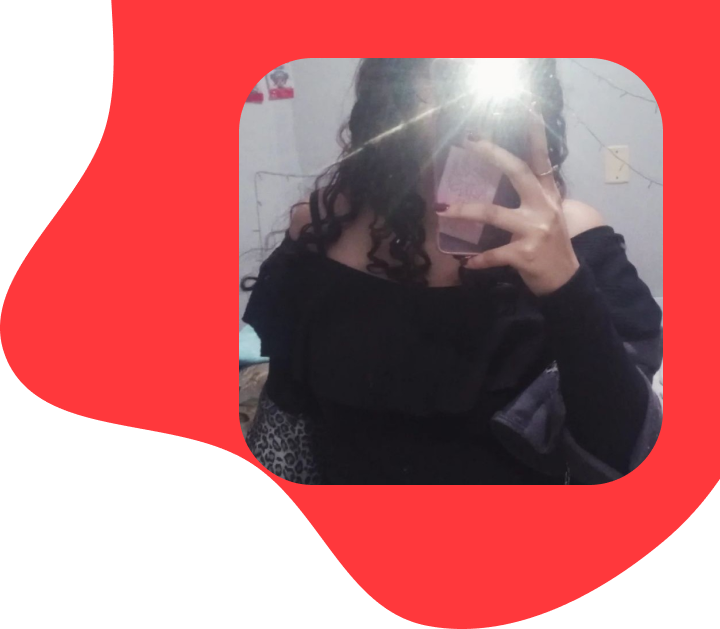
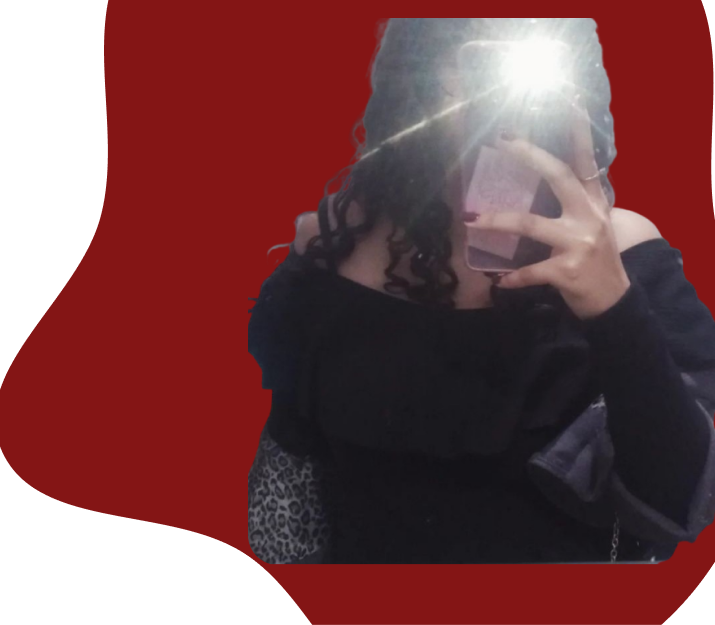
Alterações

diff --git a/index.html b/index.html
@@ -6,6 +6,9 @@
     <meta name="viewport" content="width=device-width, initial-scale=1.0">
     <title>Portifolio</title>
     <link rel="stylesheet" href="style.css">
+        <link rel="preconnect" href="https://fonts.googleapis.com">
+<link rel="preconnect" href="https://fonts.gstatic.com" crossorigin>
+<link href="https://fonts.googleapis.com/css2?family=Nunito:ital,wght@0,200..1000;1,200..1000&display=swap" rel="stylesheet">
 </head>
 
 <body>
@@ -21,42 +24,49 @@
         </nav>
     </header>
 
-    <div class="info">
-        <p class="cargo">Desenvolvedor web</p>
-        <h1>Oi,Meu nome é Eloisa</h1>
-        <p class="description">Sou aluna do senai,do curso tecnico e desenvolvimento de sistema.Minha cor favotira é
-            vermelho vinho,gosto de gatos e cachorros,ler e pintar</p>
-    </div>
-    <button><a href="#projetos"></a>Projetos</button>
-    <button><a href="btn-ghost">https://www.Likedin.com/in/bmiz</a>Likedin</button>
+    <section>
+        <div class="info">
+            <p class="cargo">Desenvolvedor web</p>
+            <h1>Oi,Meu nome é Eloisa</h1>
+            <p class="description">Sou aluna do senai,do curso tecnico e desenvolvimento de sistema.Minha cor favotira é
+                vermelho vinho,gosto de gatos e cachorros,ler e pintar</p>
+            <button class="btn-project"><a href="#projetos">Projetos</a></button>
+            <button class="btn-ghost"><a href="https://www.linkedin.com.br">Likedin</a></button>
 
-    <div>
-        <img src="img/eu.png" alt="Eu">
-    </div>
+        </div>
+
+        <div class="img-header">
+            <img src="img/eu.png" alt="Eu">
+        </div>
+    </section>
     <main id="Projetos">
+        <h2>Projetos</h2>
         <article>
             <div class="info-projeto">
                 <h2>Player Da Lolo</h2>
-                <p>Criamos uma playlist dos álbuns que mais gostamos, com uma breve descrição do que os álbuns falavam.E progrmamos no html e no css.</p>
+                <p>Criamos uma playlist dos álbuns que mais gostamos, com uma breve descrição do que os álbuns falavam.E
+                    progrmamos no html e no css.</p>
                 <a class="btn-ghost" href="">Veja mais</a>
             </div>
-            <div><img src="img/project1.png" alt="Imagem sobre o projeto"></div>
+            <div><img src="img/projeto1.png" alt="Imagem sobre o projeto"></div>
         </article>
         <article>
-            <div> <img src="img/project2.png" alt="Projeto2">
-            <div class="info-projeto">
-                <h2>Pokemon</h2>
-                <p>Vários cards de pokemon,do Bulbasauro,Squirite,Charmander e do Pikachu,com seus pesos,forças,velocidades e habilidades</p>
-                <a class="btn-ghost" href="">Veja mais</a>
-            </div>
+            <div> <img src="img/pokemonn.png" alt="Projeto2">
+                <div class="info-projeto">
+                    <h2>Pokemon</h2>
+                    <p>Vários cards de pokemon,do Bulbasauro,Squirite,Charmander e do Pikachu,com seus
+                        pesos,forças,velocidades e habilidades</p>
+                    <a class="btn-ghost" href="">Veja mais</a>
+                </div>
         </article>
         <article>
             <div class="info-projeto">
                 <h2>Atividade Show</h2>
-                <p>Simulação de  vendas de um cantor(a) que gostamos,com os preços,local,foto do artista ou show,vagas,link de comprar ingresso e breve descrição do artista e da música que iria cantar.</p>
+                <p>Simulação de vendas de um cantor(a) que gostamos,com os preços,local,foto do artista ou
+                    show,vagas,link de comprar ingresso e breve descrição do artista e da música que iria cantar.</p>
                 <a class="btn-ghost" href="">Veja mais</a>
             </div>
-            <div><img src="img/project3.png" alt="Imagem sobre o projeto"></div>
+            <div><img src="img/Captura de tela 2026-04-23 080536.png" alt="Imagem sobre o projeto"></div>
         </article>
     </main>
 
@@ -81,9 +91,9 @@
 
         <footer>
             <div>
-            <img src="img/ph_instagram-logo-fill.png" alt="insta">
-            <img src="img/bi_linkedin.png" alt="Likedin">
-            <img src="img/bi_envelope-fill.png " alt="Email">
+                <img src="img/ph_instagram-logo-fill.png" alt="insta">
+                <img src="img/bi_linkedin.png" alt="Likedin">
+                <img src="img/bi_envelope-fill.png " alt="Email">
             </div>
             <p>Eloisa 2026</p>
         </footer>

diff --git a/style.css b/style.css
@@ -2,42 +2,124 @@
     margin: 0;
     padding: 0;
     box-sizing: border-box;
+    font-family: "Nunito", sans-serif;
 }
-header{
+
+header {
     display: flex;
     justify-content: space-around;
     width: 100%;
     padding: 20px;
     position: fixed;
     z-index: 1;
+    font-size: 18px;
+    font-weight: 700;
+    line-height: 180%;
 }
-ul{
+body{
+    background-color: #F9FAFF;
+}
+ul {
     display: flex;
     width: 50vw;
     justify-content: space-evenly;
 }
-li{
+
+li {
     list-style: none;
 }
-a{
+
+a {
     text-decoration: none;
     color: black;
 }
-section,main{
+
+section,
+main {
     width: 100%;
     display: flex;
     justify-content: space-between;
     padding: 120px 0 0 120px;
 }
-.img-header{
+
+.img-header {
     margin-top: -120px;
     position: relative;
     z-index: 0;
 }
-footer{
+
+footer {
     background-image: url("img/Vector.png");
     background-position: center;
     background-size: cover;
     width: 100%;
     height: 50vh;
+}
+
+h1 {
+    font-family: "Playfair Display", serif;
+    font-size: 64px;
+    font-weight: 700;
+    line-height: 120%;
+}
+
+.cargo {
+    font-size: 20px;
+    color: #FF383C;
+    font-weight: 700;
+    text-transform: uppercase;
+}
+
+.descrition {
+    font-size: 24px;
+    color: #828282;
+    font-weight: 400;
+    line-height: 150%;
+}
+
+.info {
+    width: 40vh;
+    display: flex;
+    flex-direction: column;
+    gap: 32px;
+}
+
+button,
+a {
+    padding: 8px 24px;
+    border-radius: 8px;
+    font-size: ;
+}
+
+.btn-project {
+    background-color: #FF383C;
+    border: none;
+}
+
+.btn-ghost {
+    background-color: transparent;
+}
+main{
+    flex-direction: column;
+    justify-content:center;
+    align-items: center;
+    gap: 80px;
+}
+article{
+    display: flex;
+    width: 60vh;
+    background-color: #fff;
+    border-radius: 24px;
+}
+
+.info-projeto{
+    display: flex;
+    flex-direction: column;
+    gap: 24px;
+    justify-content: center;
+    align-items:center;
+    padding: 40px;
+}
+#contatos{
+    
 }
